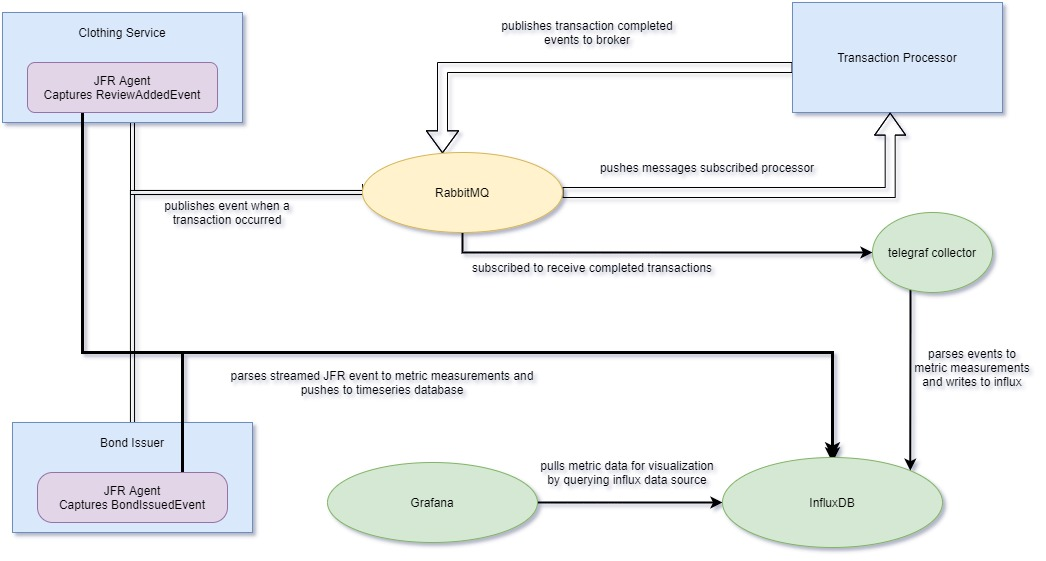
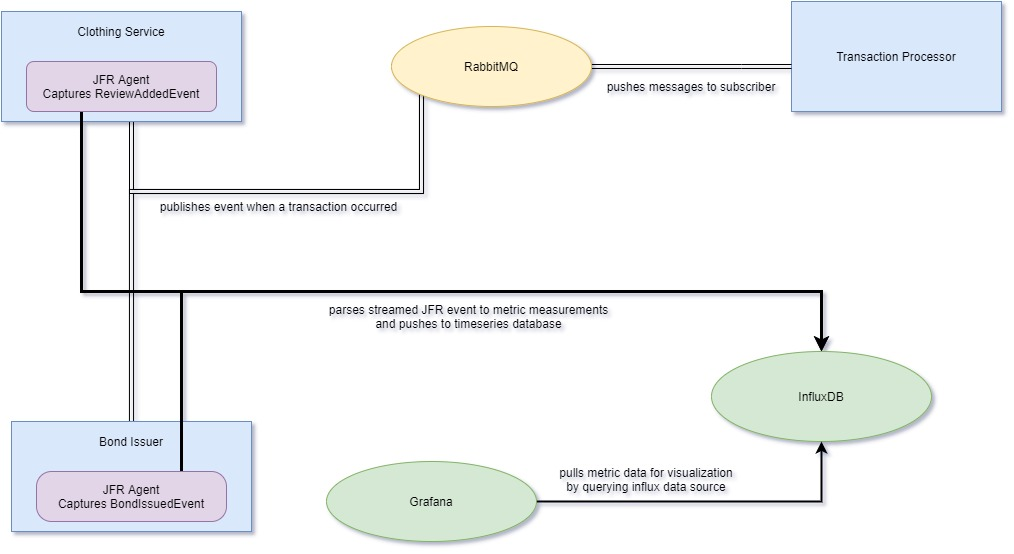
merging integration projects messaging and jfr streaming
- gradle task for generating load is added.
- telegraf collector piece is removed.
- project version is upgraded to jdk 17.
- TODO: rework tests

Changed region(s): [[0.0, 0.0, 1.0, 1.0], [0.3057, 0.8592, 0.3363, 0.9513], [0.3974, 0.8899, 0.4586, 0.9206]]

diff --git a/jfr-influx-rabbitmq-monitoring/simple-jfr-agent/src/main/java/agent/influx/InfluxWriter.java b/jfr-influx-rabbitmq-monitoring/simple-jfr-agent/src/main/java/agent/influx/InfluxWriter.java
@@ -60,28 +60,26 @@ public class InfluxWriter {
         return writer;
     }
 
-    public static boolean isWriterConfigured() {
-        return writer.influxDbClient != null;
-    }
-
     public void writeDataPoint(Point.Builder dataPointBuilder) {
 
-        var someCloudRegion = RandomData.dummyRegion();
-        var somePartitionIdentifier = RandomData.dummyPartition();
+        if (influxDbClient != null) {
 
-        var dataPoint = dataPointBuilder
-                .time(System.currentTimeMillis(), TimeUnit.MILLISECONDS)
-                .tag("region", someCloudRegion)
-                .tag("service_partition", somePartitionIdentifier)
-                .build();
+            var someCloudRegion = RandomData.dummyRegion();
+            var somePartitionIdentifier = RandomData.dummyPartition();
 
-        try {
-            log.info("Writing to InfluxDB: {}", dataPoint);
-            influxDbClient.write(dataPoint);
+            var dataPoint = dataPointBuilder
+                    .time(System.currentTimeMillis(), TimeUnit.MILLISECONDS)
+                    .tag("region", someCloudRegion)
+                    .tag("service_partition", somePartitionIdentifier)
+                    .build();
+            try {
+                log.info("Writing to InfluxDB: {}", dataPoint);
+                influxDbClient.write(dataPoint);
 
-        } catch (Exception e) {
+            } catch (Exception e) {
 
-            log.error("Error occurred while writing data point to InfluxDB!", e);
+                log.error("Error occurred while writing data point to InfluxDB!", e);
+            }
         }
     }
 }

diff --git a/jfr-influx-rabbitmq-monitoring/simple-bond-issuer/src/main/java/bond/jfr/BondIssuedJfrEvent.java b/jfr-influx-rabbitmq-monitoring/simple-bond-issuer/src/main/java/bond/jfr/BondIssuedJfrEvent.java
@@ -2,38 +2,20 @@ package bond.jfr;
 
 import jdk.jfr.*;
 
-import java.math.BigDecimal;
-
 @Name("bond.BondIssued")
 @Label("Bond Issued Event")
 @Description("Tracks when a new bond is issued for any client")
 @StackTrace(false)
 public class BondIssuedJfrEvent extends Event {
 
+    @Label("Issued Timestamp in UTC")
+    private long timestampInUtc = -1;
+
     @Label("Client Identifier")
-    private Long clientId;
+    private long clientId = -1;
 
     @Label("Bond Amount")
-    private BigDecimal amount;
-
-    @Label("Issued Timestamp in UTC")
-    private long timestampInUtc;
-
-    public Long getClientId() {
-        return clientId;
-    }
-
-    public void setClientId(Long clientId) {
-        this.clientId = clientId;
-    }
-
-    public BigDecimal getAmount() {
-        return amount;
-    }
-
-    public void setAmount(BigDecimal amount) {
-        this.amount = amount;
-    }
+    private String amount = null;
 
     public long getTimestampInUtc() {
         return timestampInUtc;
@@ -41,5 +23,21 @@ public class BondIssuedJfrEvent extends Event {
 
     public void setTimestampInUtc(long timestampInUtc) {
         this.timestampInUtc = timestampInUtc;
+    }
+
+    public long getClientId() {
+        return clientId;
+    }
+
+    public void setClientId(long clientId) {
+        this.clientId = clientId;
+    }
+
+    public String getAmount() {
+        return amount;
+    }
+
+    public void setAmount(String amount) {
+        this.amount = amount;
     }
 }

diff --git a/jfr-influx-rabbitmq-monitoring/simple-jfr-agent/src/main/java/agent/bond/BondIssuedHandler.java b/jfr-influx-rabbitmq-monitoring/simple-jfr-agent/src/main/java/agent/bond/BondIssuedHandler.java
@@ -17,19 +17,27 @@ public class BondIssuedHandler implements Consumer<RecordedEvent> {
 
         EventUtil.logEventDuration(event, getClass());
 
-        long clientId = NUMERIC_UNKNOWN_ID;
-        if (event.hasField("clientId")) {
-            clientId = event.getValue("clientId");
-        }
-        BigDecimal amount = null;
-        if (event.hasField("amount")) {
-            amount = event.getValue("amount");
-        }
-        long timestampInUtc = NUMERIC_UNKNOWN_ID;
         if (event.hasField("timestampInUtc")) {
-            timestampInUtc = event.getValue("timestampInUtc");
-        }
 
-        writer.writeBondIssuedEvent(clientId, amount, timestampInUtc);
+            long timestampInUtc = event.getLong("timestampInUtc");
+
+            long clientId = NUMERIC_UNKNOWN_ID;
+            if (event.hasField("clientId")) {
+                clientId = event.getLong("clientId");
+            }
+
+            BigDecimal amount = null;
+            if (event.hasField("amount")) {
+                String amountText = event.getValue("amount");
+                amount = new BigDecimal(amountText);
+            }
+
+            writer.writeBondIssuedEvent(clientId, amount, timestampInUtc);
+
+        } else {
+
+            // record unknown if time is not stamped to recorded event
+            writer.writeBondIssuedEvent(NUMERIC_UNKNOWN_ID, null, NUMERIC_UNKNOWN_ID);
+        }
     }
 }

diff --git a/jfr-influx-rabbitmq-monitoring/simple-jfr-agent/src/main/java/agent/bond/BondIssuerMetricWriter.java b/jfr-influx-rabbitmq-monitoring/simple-jfr-agent/src/main/java/agent/bond/BondIssuerMetricWriter.java
@@ -6,6 +6,8 @@ import org.influxdb.dto.Point;
 import java.math.BigDecimal;
 import java.math.RoundingMode;
 
+import static agent.util.EventUtil.NUMERIC_UNKNOWN_ID;
+
 public class BondIssuerMetricWriter {
 
     private static final String BOND_MEASUREMENT_NAME = "bonds";
@@ -13,7 +15,7 @@ public class BondIssuerMetricWriter {
     public void writeBondIssuedEvent(long clientId, BigDecimal amount, long timestampInUtc) {
 
         String amountStr = amount == null ? "unknown" : amount.setScale(4, RoundingMode.HALF_UP).toString();
-        String clientIdStr = clientId == -1 ? "unknown" : String.valueOf(clientId);
+        String clientIdStr = clientId == NUMERIC_UNKNOWN_ID ? "unknown" : String.valueOf(clientId);
 
         Point.Builder dataPointBuilder = Point.measurement(BOND_MEASUREMENT_NAME)
                 .addField("issued_timestamp", timestampInUtc)

diff --git a/jfr-influx-rabbitmq-monitoring/simple-bond-issuer/src/main/java/bond/service/BondService.java b/jfr-influx-rabbitmq-monitoring/simple-bond-issuer/src/main/java/bond/service/BondService.java
@@ -66,7 +66,7 @@ public class BondService {
             Bond bond = issueBond(clientId, term, amount, sourceIp);
             bondIssuedTransactionProducer.sendMessage(bond);
 
-            jfrEvent.setAmount(amount);
+            jfrEvent.setAmount(amount.toString());
             jfrEvent.setClientId(clientId);
             return bond;
 

diff --git a/jfr-influx-rabbitmq-monitoring/README.md b/jfr-influx-rabbitmq-monitoring/README.md
@@ -1,54 +1,53 @@
 ## JFR Stream, RabbitMQ, InfluxDB, Grafana Monitoring Example
 
-This is a simple demonstration project that integrates below pieces:
+This is a simple demonstration project (**requires java 17**) that integrates below pieces:
 
 * Java/Spring applications that were created as simple assignment projects.
     * [Transaction Processor](#logic-in-simple-transaction-processor-2018) - built with maven wrapper as separate module.
     * [Bond Issuer](#logic-in-simple-bond-issuer-2019) - built with gradle wrapper as child module of root, JFR agent is attached.
     * [Clothing Service](#logic-in-simple-clothing-service-2019) - built with gradle wrapper as child module of root, JFR agent is attached.
-    * These simple applications are now integrated through **a direct exchange with two queues and a routing key for each queue** to demonstrate a
-      basic example of async communication between remote processes with message broker as middleware.
 * [JFR agent](#jfr-agent) that is to be attached to java runtime of services that directly writes to InfluxDB.
 * Message broker for async communication and async metric dump, [RabbitMQ](https://www.rabbitmq.com/tutorials/amqp-concepts.html).
 * Time series database to record metrics, [InfluxDB](https://www.influxdata.com/time-series-database/).
 * Metric visualization tool, [Grafana](https://grafana.com/docs/).
 
-When a new bond is created (bond-issuer API), or a new clothing review is created (clothing-service API):
-
-- Services will send an AMQP message to their **configured exchange with different routing keys**. Then transaction-processor, which is subscribed to
-  these separate queues, will receive the message and save a new transaction.
-
-- Services will fire up a **JFR event that will then be captured by java agent** that is attached to service process. Event will be enriched with some
-  data to be tagged and then will be pushed to InfluxDB. Grafana ([check for usage and examples](README-grafana.md)) can be configured to visualize
-  metric data points recorded in InfluxDB.
-
-- These flows can be tested by importing [postman collection](api-postman_collection.json) (has example requests) to trigger API. API of services can
-  be explored via `/swagger-ui.html` for both services. Watch the flow:
-    - create new bond: POST /bonds
-    - create new review: POST /clothing/{ID}/reviews
-    - get transaction statistics: GET /statistics
-
-#### Build and Run
-
-> Building all services and agent requires **java 16**.
-
-- Run only clothing-service with JFR agent attached: `gradlew runClothingService`
-- Run only bond-issuer with JFR agent attached: `gradlew runBondIssuer`
-- Run only transaction-processor: `cd simple-transaction-processor ; mvnw spring-boot:run`
-- Run infra resources without applications for local development: `docker-compose up -d rabbitmq influx grafana`
-    - Login to rabbit management portal with user and password `guest` to check messages, queues and bindings: `http://localhost:15672/`
-
-- Run every piece together for full integration:
-    - Build maven project simple-transaction-processor: `cd simple-transaction-processor ; mvnw clean install`
-    - Build gradle project artifacts and copy for docker image creation: `gradlew clean buildAndAssembleAll`
-    - Build and run docker images, docker-compose will wait until rabbitmq and influxdb are ready to be connected before running service
-      containers: `docker-compose up -d --build`
-
-![Birdview Architecture](resources/readme/architecture.jpg)
+[comment]: <> (no image resize for all markdown parsers)
+![High Level Architecture](resources/readme/architecture.jpg)
 
 ---
 
-### JFR agent
+* Java applications are now integrated through a direct exchange with two queues and a routing key for each queue to demonstrate a basic example of
+  async communication between remote processes with message broker as middleware.
+* When a new bond is created (bond-issuer API), or a new clothing review is created (clothing-service API):
+    * Services will send an AMQP message to their **configured exchange with different routing keys**. Then transaction-processor, which is subscribed
+      to these separate queues, will receive the message and save a new transaction.
+    * Services will fire up a **JFR event that will then be captured by java agent** that is attached to service process. Event will be enriched with
+      some data to be tagged and then will be pushed to InfluxDB. Grafana ([check for usage and examples](#grafana-with-influx-source)) can be
+      configured to visualize metric data points recorded in InfluxDB.
+    * These flows can be tested by importing [postman collection](api-postman_collection.json) and using example requests to trigger service APIs (can
+      be explored via `/swagger-ui.html`) manually:
+        * create new bond: POST /bonds
+        * create new review: POST /clothing/{ID}/reviews
+        * get transaction statistics: GET /statistics
+    * Alternatively automatic flow trigger and printing the final state can be executed with gradle task: `gradlew generateLoad`
+
+#### Build and run
+
+* Run services separately:
+    * transaction-processor (maven project): `cd simple-transaction-processor ; mvnw spring-boot:run`
+    * clothing-service (JFR agent attached): `gradlew runClothingService`
+    * bond-issuer (JFR agent attached): `gradlew runBondIssuer`
+    * Only infra resources: `docker-compose up -d rabbitmq influx grafana`
+    * Login to rabbit management portal with user and password `guest` to check messages, queues and bindings: `http://localhost:15672/`
+
+* Run every piece together for full integration:
+    * transaction-processor (maven project): `cd simple-transaction-processor ; mvnw clean install`
+    * clothing-service (with JFR agent): `gradlew buildClothingService`
+    * bond-issuer (with JFR agent): `gradlew buildBondIssuer`
+    * Build and run docker images after artifacts are built, docker-compose will wait until rabbitmq and influxdb are ready to be connected before
+      running service containers: `docker-compose up -d --build`
+
+#### JFR agent
 
 * This simple java agent is attached to application runtime statically, is used to enable&capture
   [JFR](https://docs.oracle.com/javacomponents/jmc-5-4/jfr-runtime-guide/about.htm#JFRUH170) events.
@@ -56,13 +55,28 @@ When a new bond is created (bond-issuer API), or a new clothing review is create
 * For the sake of simplicity, there is no buffering events in memory, periodically dumping to disk to be collected by some telegraf agent, or any
   other more complex flows, agent writes directly to InfluxDB to keep it simple.
 
-### Logic in simple-transaction-processor (2018)
+#### Grafana with influx source
+
+* After running grafana container with docker-compose, access to UI via `http://localhost:3000`, username and password are `root`
+* Configure InfluxDB data source:
+    * HTTP URL: `http://influxdb:8086/`
+    * Default database: `grafana_exposed_metrics`
+    * Username and password are `root`
+* Can import example graphs from `resources/grafana_json_model.json`
+
+![dashboard_1]
+
+![dashboard_2]
+
+---
+
+#### Logic in simple-transaction-processor (2018)
 
 * Save concurrent transaction requests in memory without using database.
 * Statistics of incoming transactions in last 60 seconds can be fetched.
 * All transactions can be purged from memory, while accepting new transactions.
 
-### Logic in simple-bond-issuer (2019)
+#### Logic in simple-bond-issuer (2019)
 
 * Client can apply for a bond by providing his personal data, term and amount.
 * Default bond coupon (interest rate) is 5% per year and minimal term is 5 years.
@@ -92,3 +106,7 @@ When a new bond is created (bond-issuer API), or a new clothing review is create
 * Articles of clothing should be searchable by their text description (prefix match), color, brand, size, “HOT” status, and average review stars
   rounded up to the nearest whole number (e.g. an article with an average review of 2.1 would be found when searching for items with 3 stars).
 * The API does not need to allow creation of new brands or articles of clothing.
+
+[dashboard_1]: resources/readme/dashboard_1.jpg
+
+[dashboard_2]: resources/readme/dashboard_2.jpg
